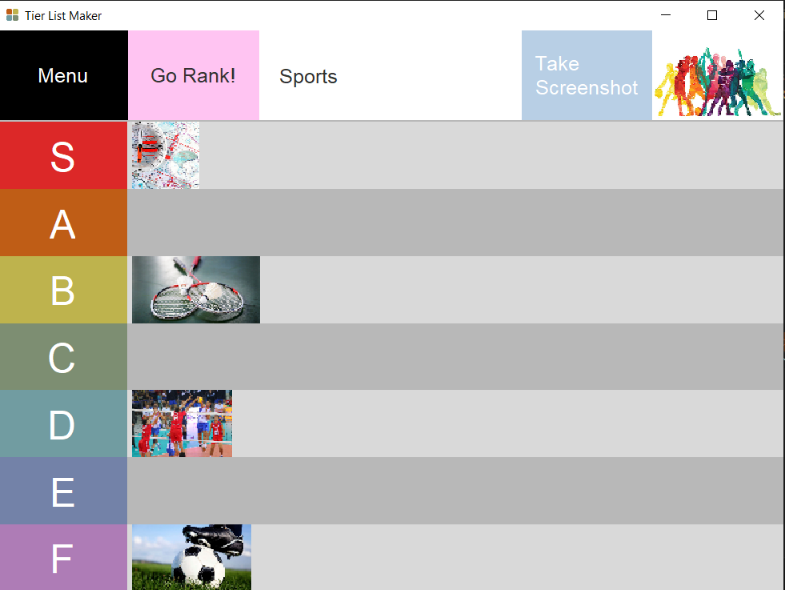
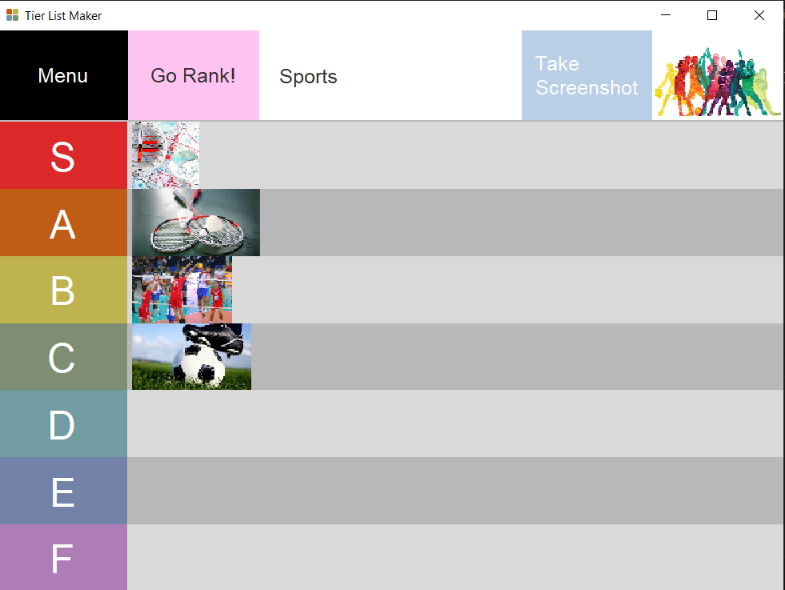
Skip modified

Changed region(s): [[0.1529, 0.3051, 0.3363, 0.7932], [0.1529, 0.8847, 0.3363, 1.0]]

diff --git a/src/main/java/com/ohj4/RankLists.java b/src/main/java/com/ohj4/RankLists.java
@@ -1,13 +1,6 @@
 package com.ohj4;
 
-import java.awt.BorderLayout;
-import java.awt.Color;
-import java.awt.Dimension;
-import java.awt.FlowLayout;
-import java.awt.Font;
-import java.awt.Graphics2D;
-import java.awt.GridLayout;
-import java.awt.Image;
+import java.awt.*;
 import java.awt.event.ActionEvent;
 import java.awt.event.ActionListener;
 import java.awt.image.BufferedImage;
@@ -15,21 +8,10 @@ import java.io.File;
 import java.io.FileInputStream;
 import java.io.FileOutputStream;
 import java.io.IOException;
-import java.nio.file.Files;
-import java.nio.file.Path;
-import java.nio.file.Paths;
+import java.nio.file.*;
 
 import javax.imageio.ImageIO;
-import javax.swing.BorderFactory;
-import javax.swing.BoxLayout;
-import javax.swing.ImageIcon;
-import javax.swing.JButton;
-import javax.swing.JDialog;
-import javax.swing.JFileChooser;
-import javax.swing.JFrame;
-import javax.swing.JLabel;
-import javax.swing.JOptionPane;
-import javax.swing.JPanel;
+import javax.swing.*;
 import javax.swing.JScrollPane;
 import javax.swing.SwingConstants;
 import javax.swing.border.EmptyBorder;
@@ -473,8 +455,21 @@ public class RankLists {
             skip.addActionListener(new ActionListener() {
                 @Override
                 public void actionPerformed(ActionEvent s) {
-                    index++;
-                    undo.setEnabled(true);
+                        int lastIndex = topicArray.length() - 1;
+
+                    JSONObject current = topicArray.getJSONObject(index);
+                    JSONObject last = topicArray.getJSONObject(lastIndex - 1);
+                
+                    JSONArray keys = current.names();
+                
+                    for (int i = 0; i < keys.length(); i++) {
+                        String key = keys.getString(i);
+                        Object currentValue = current.get(key);
+                        Object lastValue = last.get(key);
+                
+                        current.put(key, lastValue);
+                        last.put(key, currentValue);
+                    }
                     showNextItem(topicArray, scaleHeight, rankWindow, dialogOwner);
                 }
             });
@@ -671,5 +666,4 @@ public class RankLists {
 
         return labels;
     }
-
 }
